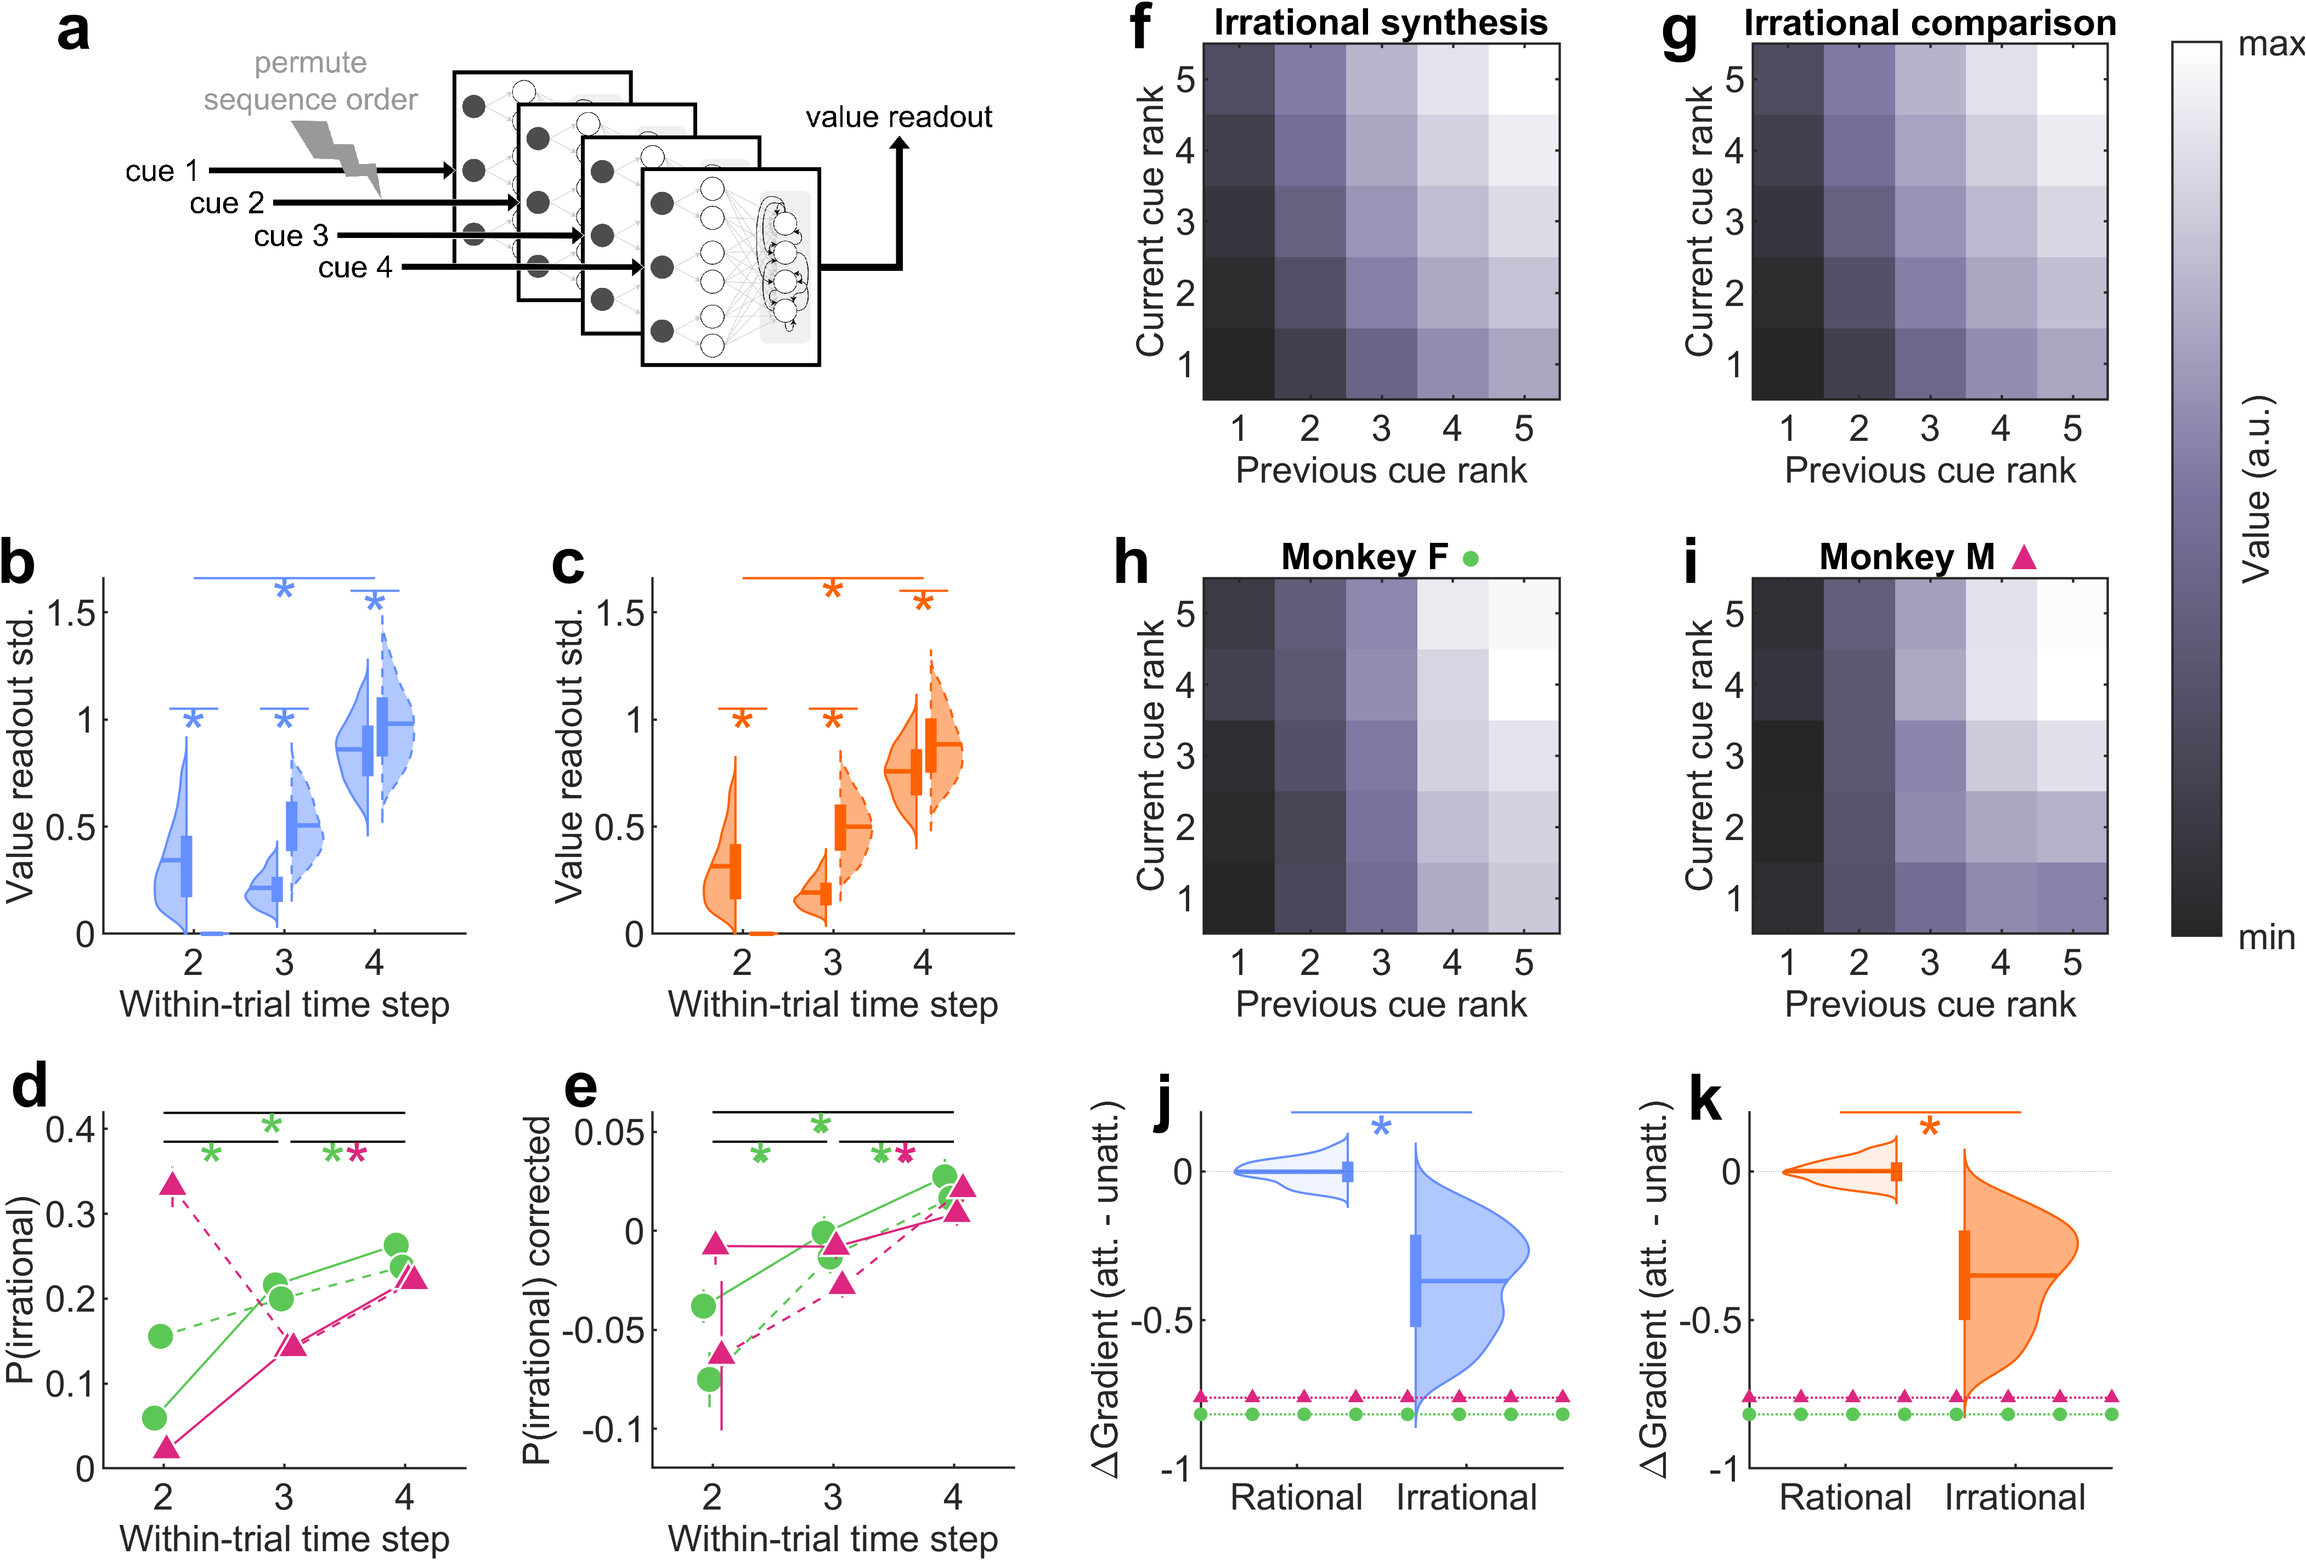
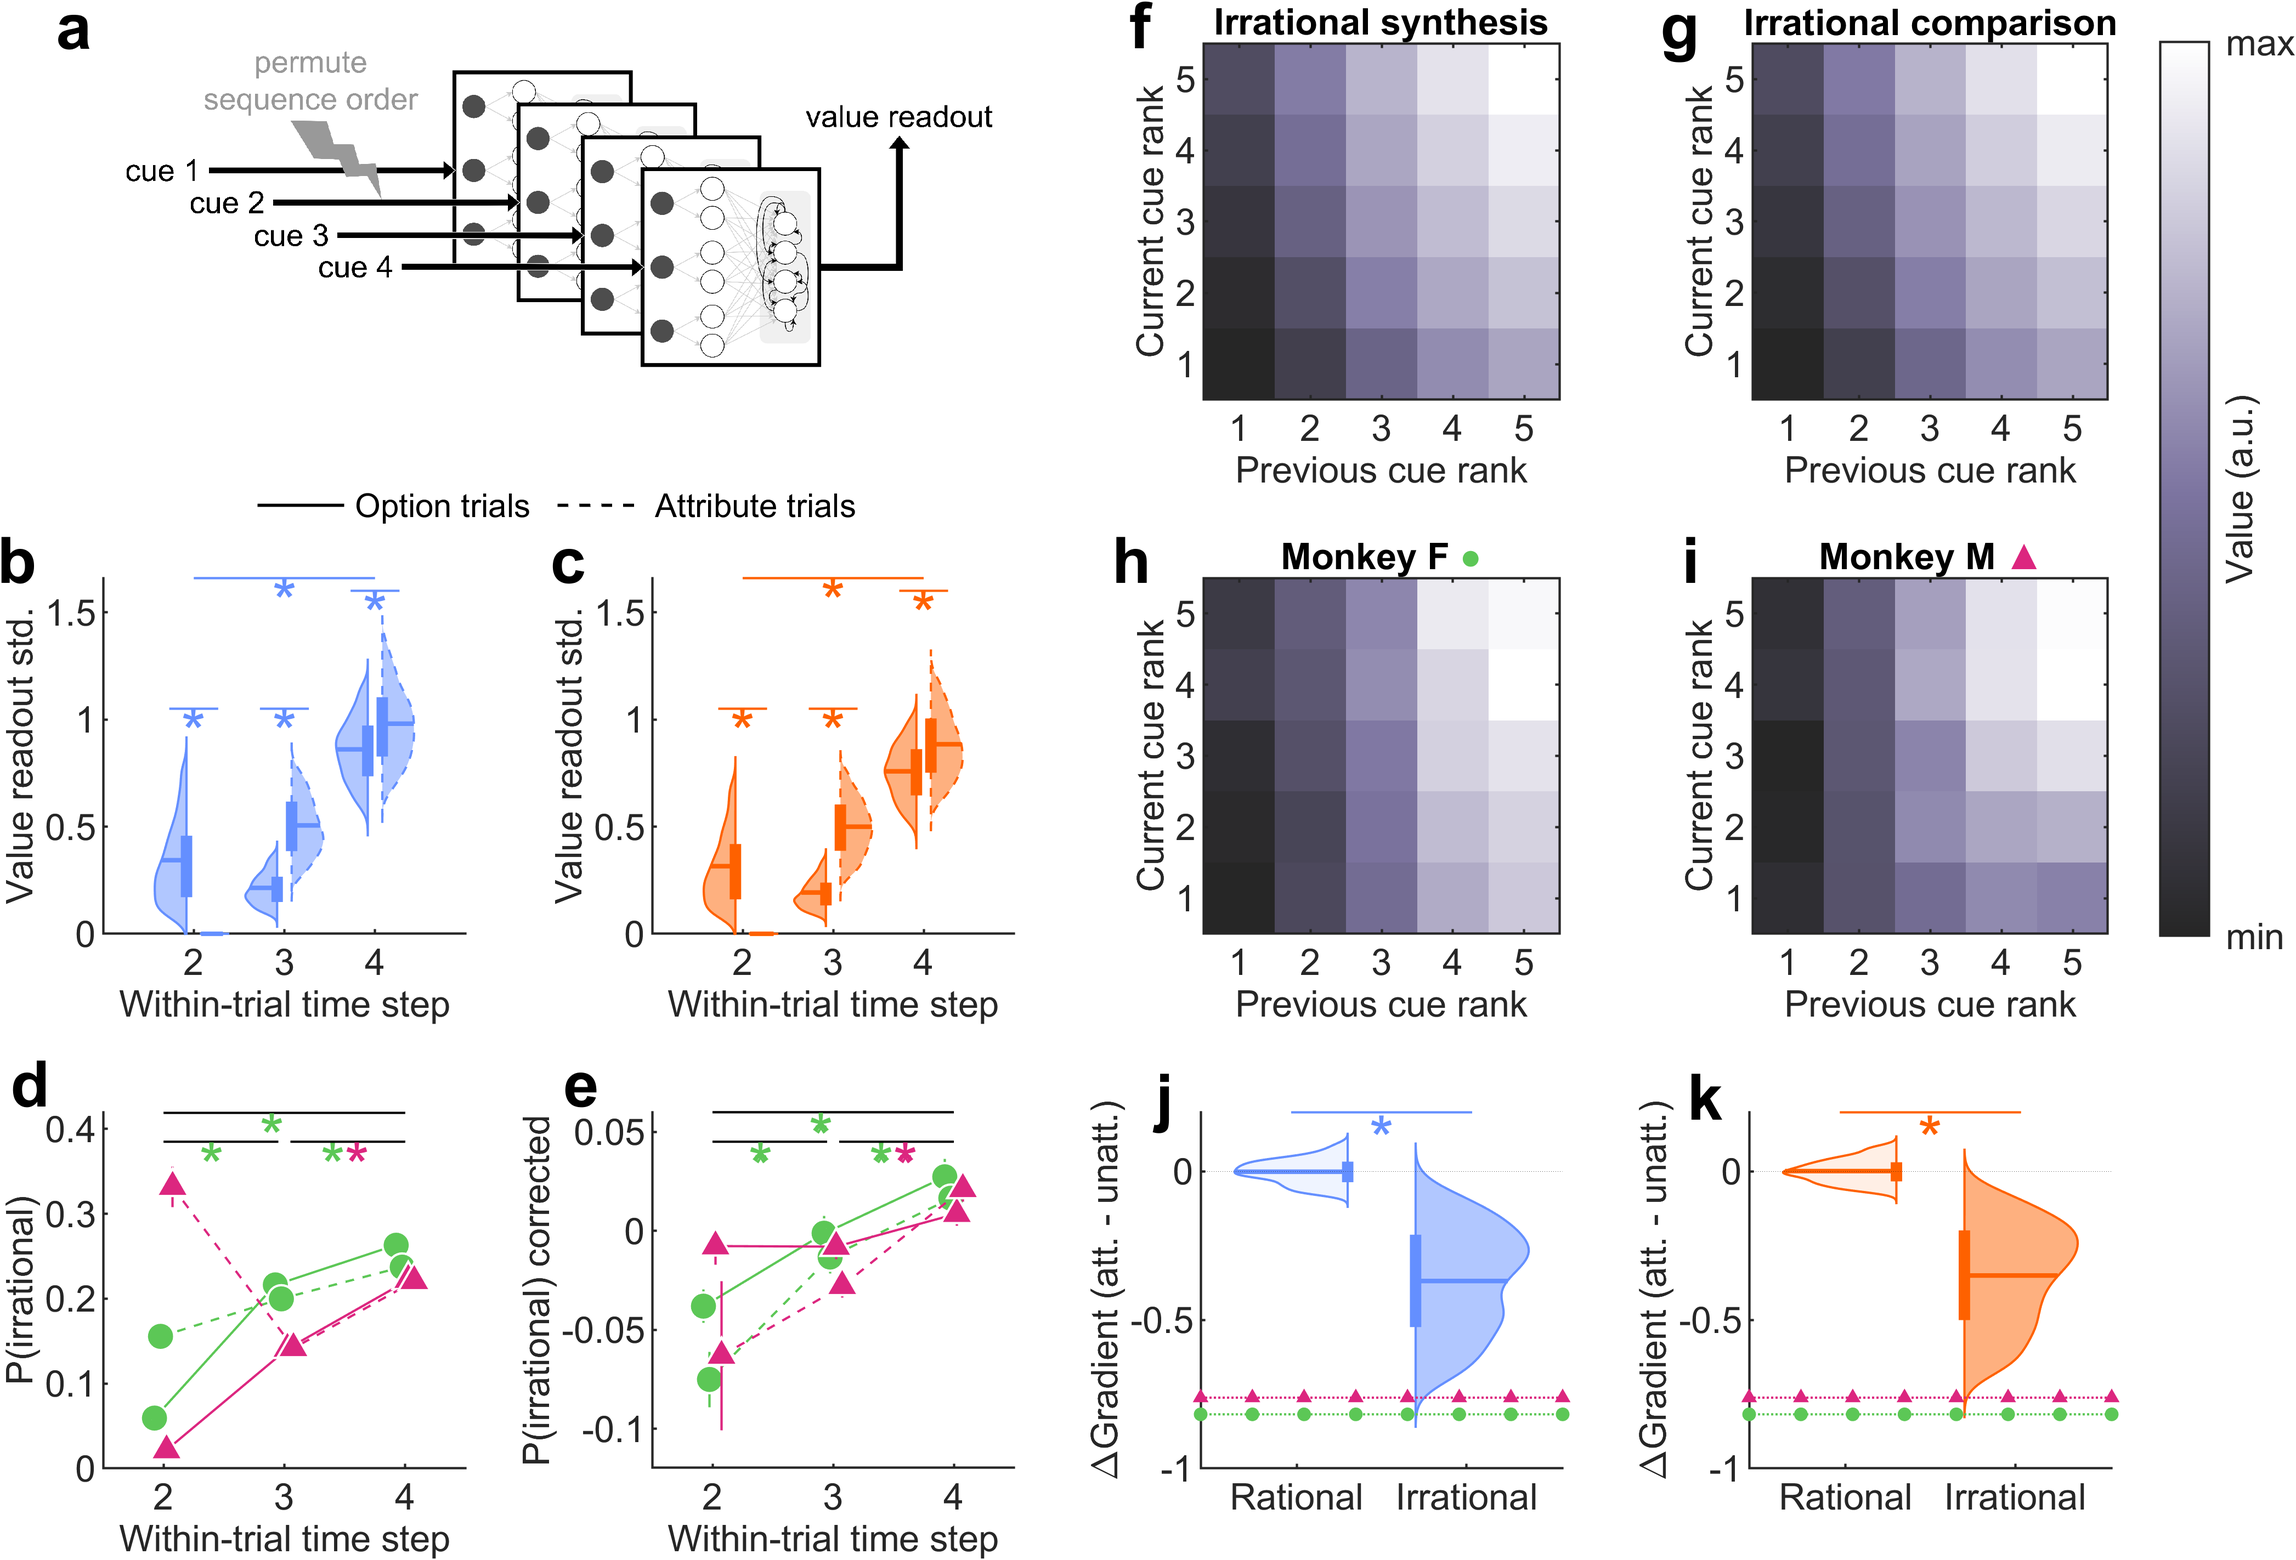
Added legend fig 4

diff --git a/src/plots/fig4_interferences.m b/src/plots/fig4_interferences.m
@@ -101,18 +101,45 @@ ax_top_right = nexttile(4, [1, 1]);
 ax_middle_right = nexttile(8, [1, 1]);
 cbar = colorbar(ax_top_right);
 cbar.Position = [...
-    ax_top_right.Position(1) + ax_top_right.Position(3) + 0.04, ...
+    ax_top_right.Position(1) + ax_top_right.Position(3) + 0.035, ...
     ax_middle_right.Position(2) - 0.01, ...
     cbar.Position(3), ...
     ax_top_right.Position(2) + ax_top_right.Position(4) - ax_middle_right.Position(2) + 0.045];
 cbar.Label.String = "Value (a.u.)";
-cbar.Label.Position(1) = cbar.Label.Position(1) - 0.5;
 data_heatmap_top_right = mean(Data.value_function_attended(:, Data.config_ID == 10 & Data.is_irrational), 2);
 cbar.Ticks = [min(data_heatmap_top_right, [], "all"), max(data_heatmap_top_right, [], "all")];
 cbar.TickLabels = ["min", "max"];
 cbar.YAxisLocation = "right";
-cbar.Label.Position(1) = cbar.Label.Position(1) - 1;
+cbar.Label.Position(1) = cbar.Label.Position(1) - 1.7;
 fontsize(cbar, 8, "points");
+
+% Option/attribute trials legend
+ghost_plots = gobjects(1, 2);
+hold on;
+ghost_plots(1) = plot(NaN, NaN, "k", ...
+    LineWidth=0.7, ...
+    LineStyle="-", ...
+    DisplayName="Option trials");
+ghost_plots(2) = plot(NaN, NaN, "k", ...
+    LineWidth=0.7, ...
+    LineStyle="--", ...
+    DisplayName="Attribute trials");
+ax_middle_left = nexttile(5, [1, 1]);
+ax_middle_left.Units="centimeters";
+ax_middle_right = nexttile(6, [1, 1]);
+ax_middle_right.Units="centimeters";
+ldg_position = [...
+    ax_middle_left.Position(1), ...
+    ax_middle_left.Position(2) + ax_middle_left.Position(4) + 0.1, ...
+    ax_middle_right.Position(1) + ax_middle_right.Position(3) - ax_middle_left.Position(1), ...
+    1];
+legend(ax_middle_left, ghost_plots, ...
+    NumColumns=2, ...
+    IconColumnWidth=19, ...
+    Units="centimeters", ...
+    Position=ldg_position, ...
+    Box="off");
+hold off;
 
 % Subplot letters
 writePanelLetter(nexttile(1, [1, 2]), "a", -0.2, -0.1);

diff --git a/src/plots/subplots/plotNeuralDistanceTrajectory.m b/src/plots/subplots/plotNeuralDistanceTrajectory.m
@@ -189,7 +189,7 @@ if ~ inlay_plot
         DisplayName="attentional");
     
     % Create legend
-    ax_legend = legend(ax, ghost_plots, ...
+    legend(ax, ghost_plots, ...
         NumColumns=3, ...
         Box="off", ...
         Location="southoutside", ...
